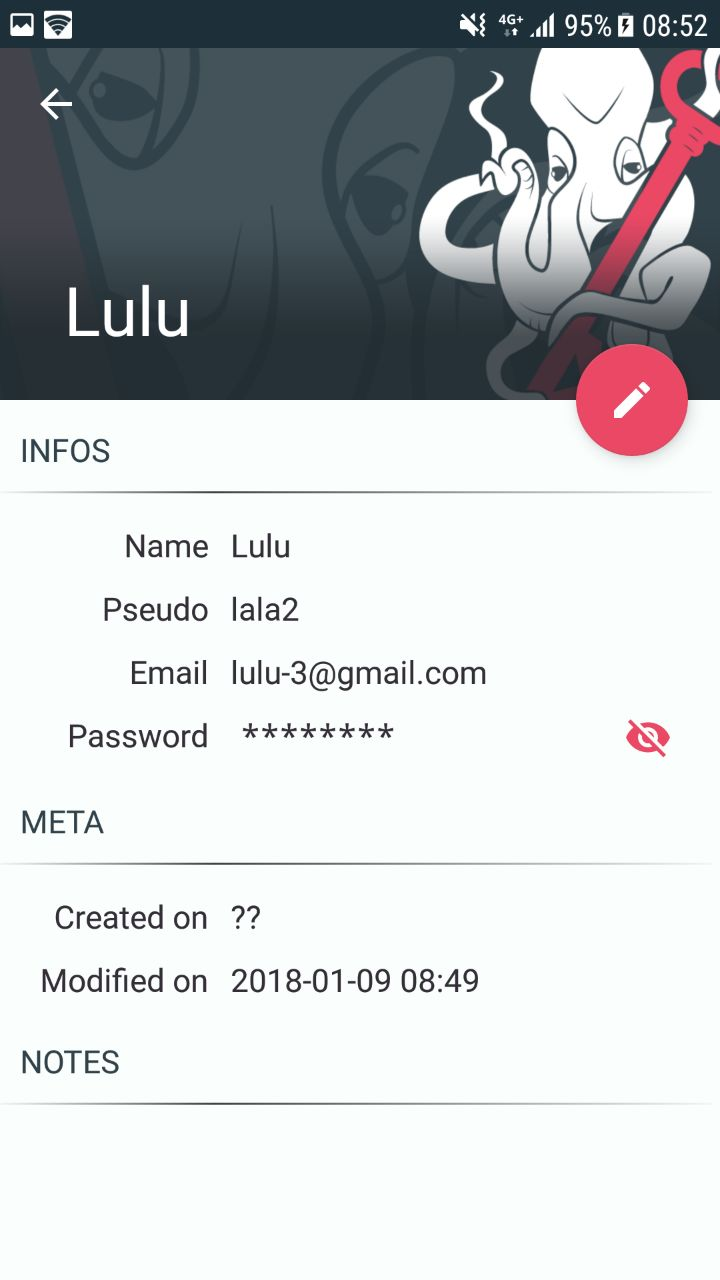
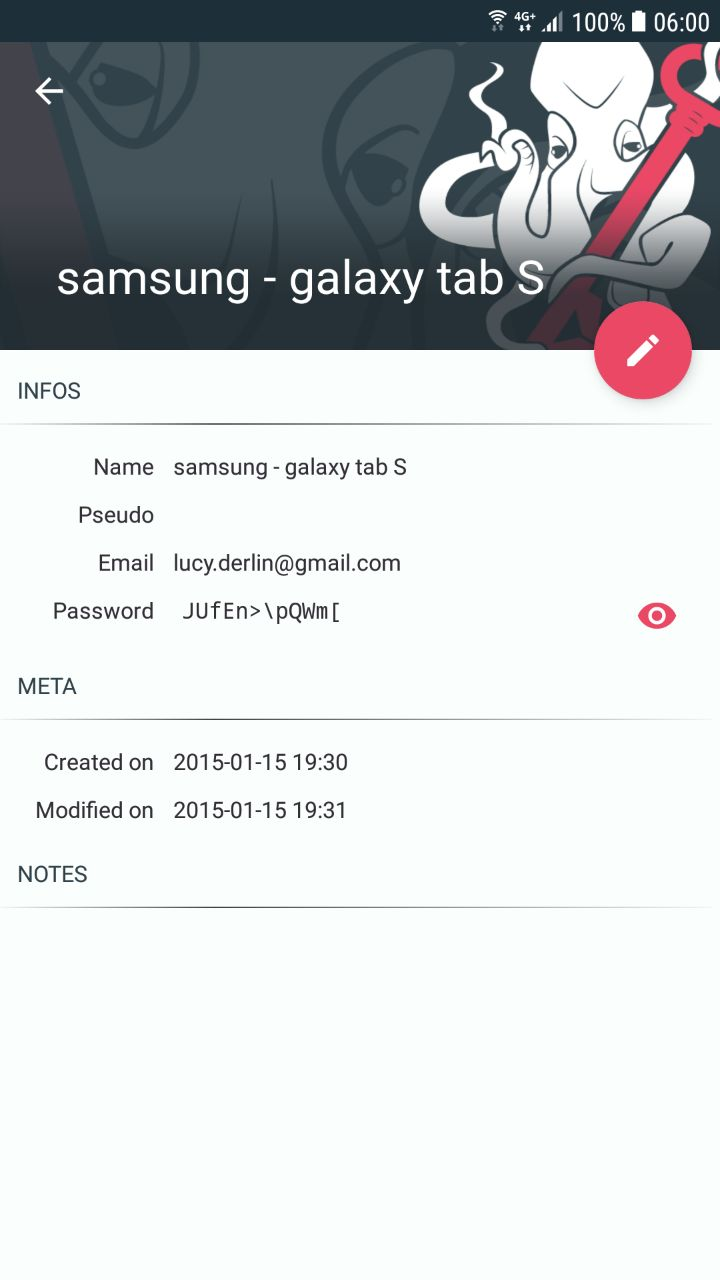
Ajout des captures d'écrans

diff --git a/parties/2-presentation.tex b/parties/2-presentation.tex
@@ -38,147 +38,135 @@ Pour mieux comprendre les mécanismes derrière le chiffrement AES-CBC ainsi que
 
 fonctionnalités et captures aussi sur tablette !
 
-Au premier lancement de l'appliation, l'utilisateur doit configurer l'accès vers son compte dropbox. L'application peut en suite utiliser cet accès pour créer et sauver les sessions de l'utilisateurs. Lors de la première utilisation de l'application, aucune session n'est trouvée. Par défaut, l'application mobile easypass propose à l'utilisateur de créer la session TODO mettre le nom de la session. Elle sera chiffrée par le master password que l'utilisateur doit choisir à cet écran. La suite easypass permet à l'utilisateur de créer et de manipuler des sessions à travers d'autres outils. L'utilisateur peut choisir d'ouvrir un session  différente au même écran.
+Au premier lancement de l'appliation, l'utilisateur doit configurer l'accès vers son compte dropbox voir Fig. \ref{fig:login-dropbox}. L'application peut en suite utiliser cet accès pour créer et sauver les sessions de l'utilisateur. Lors de la première utilisation de l'application, aucune session n'est trouvée voir Fig. \ref{fig:login-dropbox}. Par défaut, l'application mobile easypass propose à l'utilisateur de créer la session TODO mettre le nom de la session. Elle sera chiffrée par le master password que l'utilisateur doit choisir à cet écran. La suite easypass permet à l'utilisateur de créer et de manipuler des sessions à travers d'autres outils. L'utilisateur peut choisir d'ouvrir un session  différente au même écran.
 
-% exemple multiple images horizontal
-% \begin{center}
-% 	\begin{minipage}{.3\textwidth}
-% 		\includeFigure{1}{loading}{Page de chargement.}
-% 	\end{minipage}
-% 	\begin{minipage}{.3\dropbox}
-% 		\includeFigure{1}{login}{Choisir un compte Dropbox.}
-% 	\end{minipage}
-% 	\begin{minipage}{.3\textwidth}
-% 		\includeFigure{1}{choose_master_password}{Créer la session TODO mettre le nom de la session et le Master Password qui la chiffrera.}
-% 	\end{minipage}        
-% \end{center}
+\begin{center}
+	\begin{minipage}{.3\textwidth}
+		\includeFigure{1}{loading}{} % Page de chargement.
+	\end{minipage}
+	\begin{minipage}{.3\textwidth}
+		\includeFigure{1}{login-dropbox}{} % Choisir un compte Dropbox.
+	\end{minipage}
+	\begin{minipage}{.3\textwidth}
+		\includeFigure{1}{choose-master-password}{} % Créer la session TODO mettre le nom de la session et le Master Password qui la chiffrera.
+	\end{minipage}        
+\end{center}
 
-A présent, si l'application est relancée, le master password est demandé afin de déchiffrer la session TODO add fig. Le master password doit être compliqué afin de garantir la sécurité de l'application. Afin que l'utilisateur n'ait pas besoin de le rentrer à chaque utilisation, il est possible de le mettre en cache en cochant la case remember. L'utilisateur peut utiliser les méthodes d'authifications fournies par Android (modèle, empreinte, etc). L'utilisateur peut choisir d'ouvrir une session différente. 
+A présent, si l'application est relancée, le master password est demandé afin de déchiffrer la session TODO add fig. Le master password doit être compliqué afin de garantir la sécurité de l'application. Afin que l'utilisateur n'ait pas besoin de le rentrer à chaque utilisation, il est possible de le mettre en cache en cochant la case remember. L'utilisateur peut utiliser les méthodes d'authentifications fournies par Android (modèle, empreinte, etc). L'utilisateur peut choisir d'ouvrir une session différente. 
 
-% exemple multiple images horizontal
-%\begin{center}
-%	\begin{minipage}{.5\textwidth}
-%		\includeFigure{1}{Loading}{Page de chargement.}
-%	\end{minipage}
-%	\begin{minipage}{.5\textwidth}
-%		\includeFigure{1}{TODO}{Ouvre la session TODO mettre le nom de la session (ou une autre session selectionée par l'utilisateur) à l'aide du Master Password.}
-%	\end{minipage}        
-%\end{center}
+\begin{center}
+	\begin{minipage}{.3\textwidth}
+		\includeFigure{1}{loading}{} % Page de chargement.
+	\end{minipage}
+	\begin{minipage}{.3\textwidth}
+		\includeFigure{1}{login}{} % Ouvre la session TODO mettre le nom de la session (ou une autre session selectionée par l'utilisateur) à l'aide du Master Password.
+	\end{minipage}        
+\end{center}
 
-La vue principale ou l'activité principale affiche la liste de tous les comptes de l'utilisateur TODO add fig. Ils sont répertoriés par un Nom unique. L'utilisateur peut ajouter un nouveau compte grâce au bouton flottant.Différentes informations peuvent être spécifiées au moment de la création du compte ainsi que le mot de passe. L'application \easypass{} propose également de générer un password aléatoire selon différents critères. 
+La vue principale ou l'activité principal affiche la liste de tous les comptes de l'utilisateur TODO add fig. Ils sont répertoriés par un Nom unique. L'utilisateur peut ajouter un nouveau compte grâce au bouton flottant.Différentes informations peuvent être spécifiées au moment de la création du compte ainsi que le mot de passe. L'application \easypass{} propose également de générer un password aléatoire selon différents critères. 
 
-% exemple multiple images horizontal
-%\begin{center}
-%	\begin{minipage}{.3\textwidth}
-%		\includeFigure{1}{TODO}{Exemple d'une liste contenant TODO comptes.}
-%	\end{minipage}
-%	\begin{minipage}{.3\dropbox}
-%		\includeFigure{1}{TODO}{Création d'un nouveau compte.}
-%	\end{minipage}
-%	\begin{minipage}{.3\textwidth}
-%		\includeFigure{1}{TODO}{Générer un mot de passe.}
-%	\end{minipage}        
-%\end{center}
+\begin{center}
+	\begin{minipage}{.3\textwidth}
+		\includeFigure{1}{TODO}{} % Exemple d'une liste contenant TODO comptes.
+	\end{minipage}
+	\begin{minipage}{.3\textwidth}
+		\includeFigure{1}{new-account}{} % Création d'un nouveau compte.
+	\end{minipage}
+	\begin{minipage}{.3\textwidth}
+		\includeFigure{1}{password-generator}{} % Générer un mot de passe.
+	\end{minipage}        
+\end{center}
 
 La compte créé apparaît maintenant dans la liste des comptes TODO add fig. Lorsque l'utilisateur sélectionne un compte de la liste un pannel propose différentes actions.
 Différents raccourcis permettent à l'utilisateur de copier les informations principales du compte sans l'ouvrir (Password, Username, Email). Un autre raccourcis permet d'afficher le mot de passe sauvé et de le copier. 
 
-% exemple multiple images horizontal
-%\begin{center}
-%	\begin{minipage}{.3\textwidth}
-%		\includeFigure{1}{TODO}{Exemple d'une liste contenant TODO comptes.}
-%	\end{minipage}
-%	\begin{minipage}{.3\dropbox}
-%		\includeFigure{1}{TODO}{Pannel lorsqu'un compte est sélectionné. Les options sont grisées lorsque les informations sont vides.}
-%	\end{minipage}
-%	\begin{minipage}{.3\textwidth}
-%		\includeFigure{1}{TODO}{Raccourcis permmettant de voir le mot de passe d'un compte.}
-%	\end{minipage}        
-%\end{center}
+\begin{center}
+	\begin{minipage}{.3\textwidth}
+		\includeFigure{1}{liste}{} % Exemple d'une liste contenant TODO comptes.
+	\end{minipage}
+	\begin{minipage}{.3\textwidth}
+		\includeFigure{1}{liste-edition}{} % Pannel lorsqu'un compte est sélectionné. Les options sont grisées lorsque les informations sont vides.
+	\end{minipage}
+	\begin{minipage}{.3\textwidth}
+		\includeFigure{1}{password-shortcut}{} % Raccourcis permmettant de voir le mot de passe d'un compte.
+	\end{minipage}        
+\end{center}
 
 Depuis ce pannel, l'utilisateur peut accéder à un nouvel écran et voir ou éditer les détails du compte sélectionné. Il est également possible d'afficher les détails du compte avec en cliquant longtemps sur un compte de la liste.
 
-% exemple multiple images horizontal
-%\begin{center}
-%	\begin{minipage}{.5\textwidth}
-%		\includeFigure{1}{TODO}{Les détails du compte.}
-%	\end{minipage}
-%	\begin{minipage}{.5\textwidth}
-%		\includeFigure{1}{TODO}{Ecran d'édition du compte.}
-%	\end{minipage}        
-%\end{center}
+\begin{center}
+	\begin{minipage}{.3\textwidth}
+		\includeFigure{1}{details}{} % Les détails du compte.
+	\end{minipage}
+	\begin{minipage}{.3\textwidth}
+		\includeFigure{1}{edition}{} % Ecran d'édition du compte.
+	\end{minipage}        
+\end{center}
 
 Finalement l'utilisateur peut encore supprimer un compte depuis la liste principale. En faisant glisser le compte sur la gauche. Si un compte est supprimé ou modifié, il est possible de revenir en arrière en cliquant sur le bouton Undo.
 
-% exemple multiple images horizontal
-%\begin{center}
-%	\begin{minipage}{.5\textwidth}
-%		\includeFigure{1}{TODO}{Exemple de suppression d'un compte.}
-%	\end{minipage}
-%	\begin{minipage}{.5\textwidth}
-%		\includeFigure{1}{TODO}{Affichage du bouton Undo pour annuler la dernière modification.}
-%	\end{minipage}        
-%\end{center}
+\begin{center}
+	\begin{minipage}{.3\textwidth}
+		\includeFigure{1}{delete}{} % Exemple de suppression d'un compte.
+	\end{minipage}
+	\begin{minipage}{.3\textwidth}
+		\includeFigure{1}{undo}{} % Affichage du bouton Undo pour annuler la dernière modification.
+	\end{minipage}        
+\end{center}
 
 L'utilisateur peut modifier l'affichage de la liste principale pour trouver plus rapidement les comptes qu'ils cherchent. La liste principale peut être triée par nom ou date de création. Une fonction de recherche est également proposée pour retrouver un compte par son nom, son username ou son email. L'utilisateur peut choisir ses comptes favoris. Ils apparaîtront en haut de la liste. Les comptes favoris sont sauvés dans la session.
 
-% exemple multiple images horizontal
-%\begin{center}
-%	\begin{minipage}{.3\textwidth}
-%		\includeFigure{1}{TODO}{Option de tri de la liste principale.}
-%	\end{minipage}
-%	\begin{minipage}{.3\textwidth}
-%		\includeFigure{1}{TODO}{Option de recherche.}
-%	\end{minipage}
-%	\begin{minipage}{.3\textwidth}
-%		\includeFigure{1}{TODO}{Mettre un compte dans les favoris.}
-%	\end{minipage}        
-%\end{center}
+\begin{center}
+	\begin{minipage}{.3\textwidth}
+		\includeFigure{1}{tri}{} % Option de tri de la liste principale.
+	\end{minipage}
+	\begin{minipage}{.3\textwidth}
+		\includeFigure{1}{search}{} % Option de recherche.
+	\end{minipage}
+\end{center}
 
 La session ouverte dans l'application est toujours synchronisée avec Dropbox. Dans le cas où le téléphone n'a plus accès à internet, une copie de la session est conservée en locale avec la dernière synchronisation. L'application peut ainsi afficher les comptes mais sans les éditer.
 
-% exemple multiple images horizontal
-%\begin{center}
-%	\begin{minipage}{.3\textwidth}
-%		\includeFigure{1}{TODO}{Chargement de la dernière session locale sauvegardée.}
-%	\end{minipage}
-%	\begin{minipage}{.3\textwidth}
-%		\includeFigure{1}{TODO}{Une icône en rouge est affichée lorsqu'il n'y a plus de réseau.}
-%	\end{minipage}
-%	\begin{minipage}{.3\textwidth}
-%		\includeFigure{1}{TODO}{Les actions d'éditions sont désactivées.}
-%	\end{minipage}        
-%\end{center}
+\begin{center}
+	\begin{minipage}{.3\textwidth}
+		\includeFigure{1}{local-file}{} % Chargement de la dernière session locale sauvegardée.
+	\end{minipage}
+	\begin{minipage}{.3\textwidth}
+		\includeFigure{1}{no-network}{} % Une icône en rouge est affichée lorsqu'il n'y a plus de réseau.
+	\end{minipage}
+	\begin{minipage}{.3\textwidth}
+		\includeFigure{1}{edition-disabled}{} % Les actions d'éditions sont désactivées.
+	\end{minipage}        
+\end{center}
 
 La suite \easypass{} permet de manipuler la session à travers plusieurs applications (Application Java, Ligne de commande, Application mobile). Dans le cas où la session serait modifiée par un autre programme. L'utilisateur peut forcer la synchronisation afin de récupérer les dernières modifications. Cette action est possible grâce au bouton sync.
 
-% exemple 1 figure
-%\includeFigure{.5}{TODO}{Force la synchronisation de la session locale avec la session sauvée sur Dropbox.}
+\includeFigure{.5}{sync}{} % Force la synchronisation de la session locale avec la session sauvée sur Dropbox.
 
 Les paramètres généraux de l'application peuvent être atteint depuis l'écran principale de l'application. Parmis les actions possibles, l'utilisateur peut :
-- Personnaliser la liste de caractères spéciaux utilisés lors de la génération du mot de passe. 
-- Modifier le master password de la session chargée.
-- Retirer le master password du cache.
-- Ouvrir l'application à nouveau avec une autre session.
-- Oublier l'accès au compte Dropbox de l'utilisateur.
-- Effacer le cache de l'application. Notamment la session local utilisé pour faire fonctionner l'application quand le téléphone n'a pas accès au réseau.
 
-% exemple multiple images horizontal
-%\begin{center}
-%	\begin{minipage}{.3\textwidth}
-%		\includeFigure{1}{TODO}{Settings de l'application.}
-%	\end{minipage}
-%	\begin{minipage}{.3\textwidth}
-%		\includeFigure{1}{TODO}{Edition de la liste des caractères spéciaux.}
-%	\end{minipage}
-%	\begin{minipage}{.3\textwidth}
-%		\includeFigure{1}{TODO}{Edition du master password.}
-%	\end{minipage}        
-%\end{center}
+Personnaliser la liste de caractères spéciaux utilisés lors de la génération du mot de passe. 
+Modifier le master password de la session chargée.
+Retirer le master password du cache.
+Ouvrir l'application à nouveau avec une autre session.
+Oublier l'accès au compte Dropbox de l'utilisateur.
+Effacer le cache de l'application. Notamment la session local utilisé pour faire fonctionner l'application quand le téléphone n'a pas accès au réseau.
+
+\begin{center}
+	\begin{minipage}{.3\textwidth}
+		\includeFigure{1}{settings}{} % Settings de l'application.
+	\end{minipage}
+	\begin{minipage}{.3\textwidth}
+		\includeFigure{1}{custom-liste}{} % Edition de la liste des caractères spéciaux.
+	\end{minipage}
+	\begin{minipage}{.3\textwidth}
+		\includeFigure{1}{new_password}{} % Edition du master password.
+	\end{minipage}        
+\end{center}
 
 
 % exemple de référence
-blabla (see Figure \ref{fig:login}) blabla.
+% blabla (see Figure \ref{fig:login}) blabla.
 
 % exemple 1 figure
-\includeFigure{.5}{generate_password}{caption text}
+% \includeFigure{.5}{generate_password}{caption text}

diff --git a/parties/1-introduction.tex b/parties/1-introduction.tex
@@ -8,13 +8,7 @@ Ce rapport présente l'application Android \easypass{} conçue dans le cadre du 
 
 Tout comme ses concurrents (\emph{LastPass}, etc.), il permet de stocker de manière sécurisée ses mots de passe et de les consulter depuis n'importe où au moyen d'un unique \emph{Master Password}. L'originalité et l'avantage d'\easypass{{} repose dans la manière dont il stocke les informations. 
 
-\begin{center}
-    \includegraphics[height=5cm]{intro-1.jpg}
-    \includegraphics[height=5cm]{intro-2.jpg}
-    \includegraphics[height=5cm]{intro-3.jpg}
-    \includegraphics[height=5cm]{intro-4.jpg}
-    \includegraphics[height=5cm]{intro-5.jpg}
-\end{center}
+\includeFigure{1}{intro}{Slides présentés au lancement de l'application.}
 
 \emph{LastPass} par exemple possède ses propres serveurs, tandis que d'autres ont opté pour un stockage local, sur l'ordinateur de l'utilisateur. Dans le premier cas, il est nécessaire d'avoir une confiance totale dans les serveurs du service. Dans le second cas, un accident et nous perdons nos mots de passe (à moins de maitriser l'art de la sauvegarde, ce qui n'est pas si courant).
 
